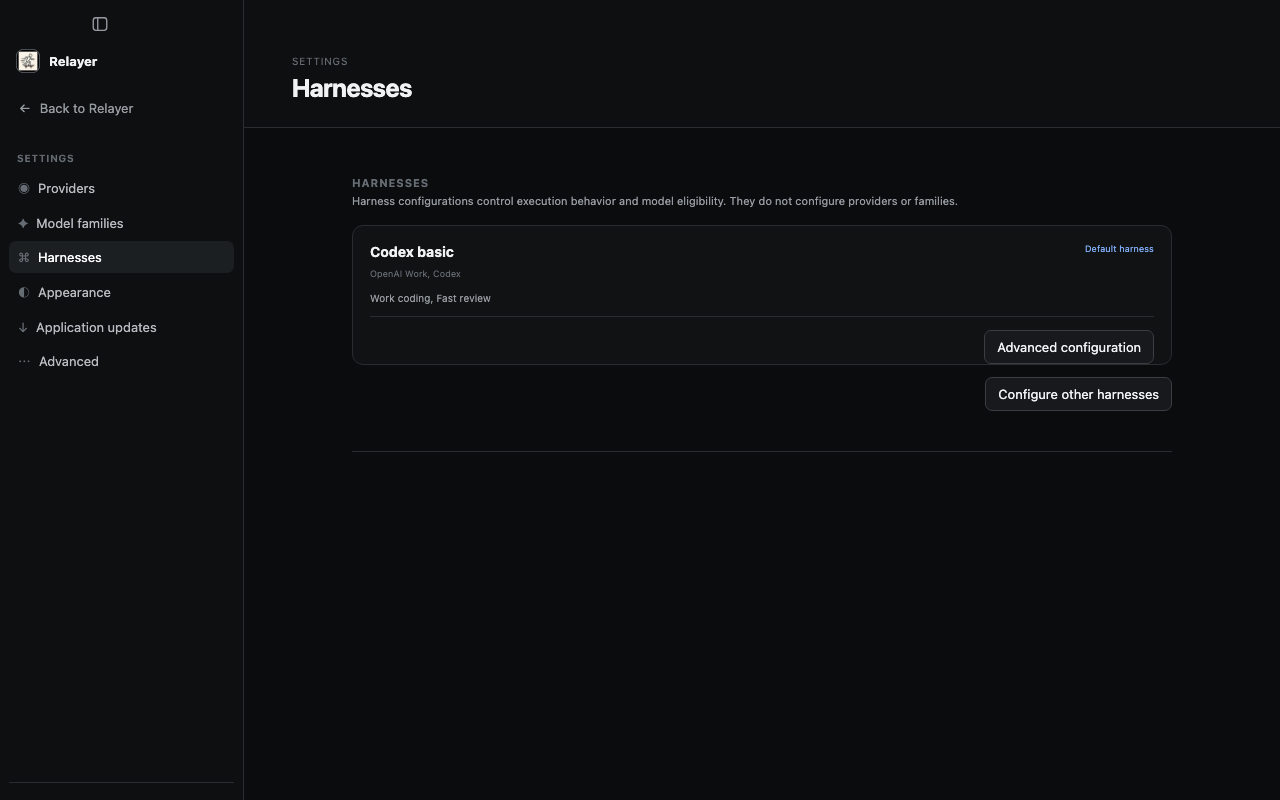
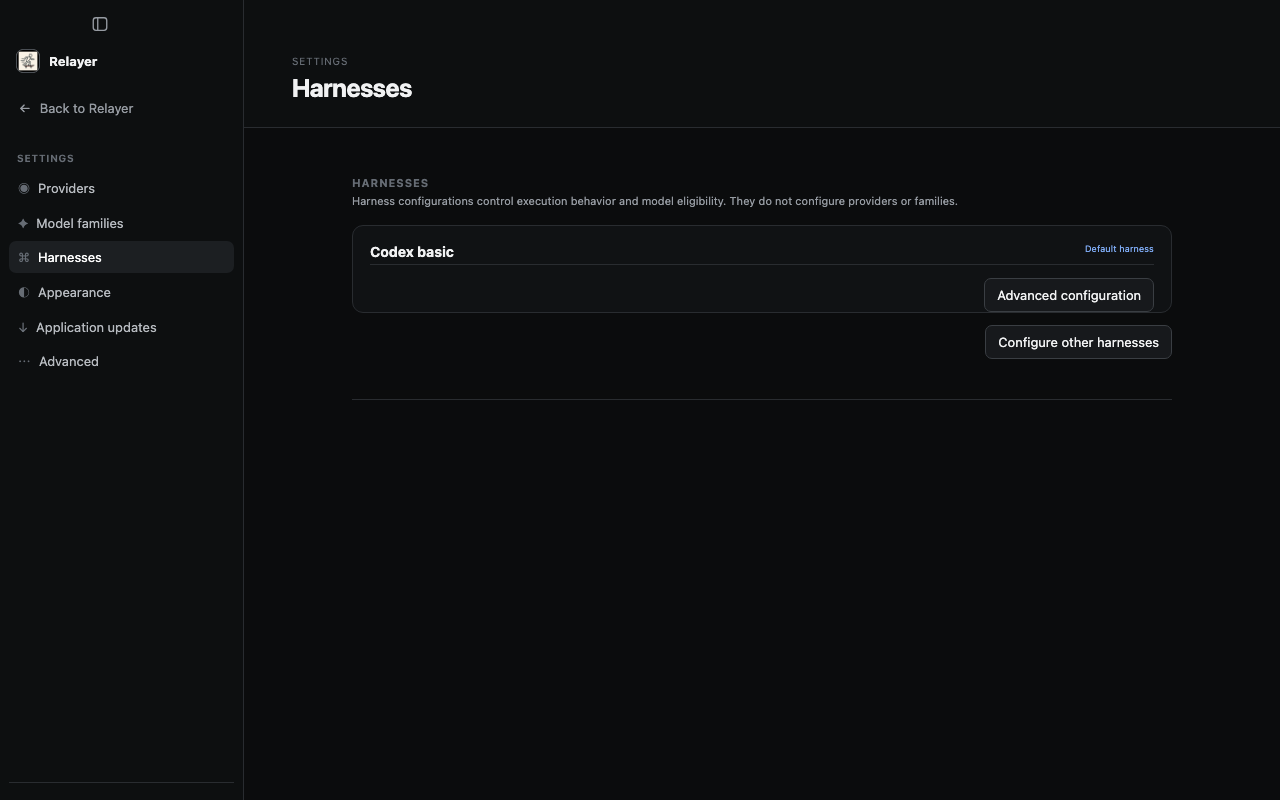
Simplify Harness Settings cards

Changed region(s): [[0.75, 0.3438, 0.9062, 0.5], [0.2812, 0.3125, 0.375, 0.4062]]

diff --git a/desktop/renderer/styles.css b/desktop/renderer/styles.css
@@ -110,4 +110,4 @@ html[data-theme="light"] .tutorial-target{outline-color:#527baa!important;box-sh
 .onboarding-family-choice-section{display:grid;gap:6px}.onboarding-family-choice-section h4{margin:3px 0 0;color:var(--faint);font-size:9px;font-weight:500}
 .composer-context-draft-status{grid-column:1;font-size:10px;color:var(--muted)}.composer-context-draft-status.status-error{color:var(--danger)}
 .context-draft-send-warning{position:fixed;inset:auto var(--context-draft-send-warning-right,12px) var(--context-draft-send-warning-bottom,72px) auto;width:min(352px,calc(100vw - 24px));max-height:calc(100vh - 24px);margin:0;padding:13px;overflow-x:hidden;overflow-y:auto;border:1px solid var(--line-strong);border-radius:12px;background:#191c1f;color:var(--text);box-shadow:0 26px 100px rgba(0,0,0,.66)}.context-draft-send-warning::backdrop{background:rgba(3,4,5,.38)}.context-draft-send-warning:after{content:"";position:absolute;right:24px;bottom:-8px;width:14px;height:14px;border-right:1px solid var(--line-strong);border-bottom:1px solid var(--line-strong);background:#191c1f;transform:rotate(45deg)}.context-draft-send-warning-kicker{display:flex;align-items:center;gap:8px;color:var(--warning);font-size:10px;font-weight:750;letter-spacing:.08em;text-transform:uppercase}.context-draft-send-warning-kicker span{width:20px;height:20px;display:grid;place-items:center;border:1px solid color-mix(in srgb,var(--warning) 42%,transparent);border-radius:50%;background:color-mix(in srgb,var(--warning) 10%,transparent)}.context-draft-send-warning h2{margin:8px 0 5px;font-size:15px;line-height:1.25;letter-spacing:-.015em}.context-draft-send-warning>p{margin:0;color:var(--muted);font-size:10px;line-height:1.45}.context-draft-send-warning .context-draft-send-warning-count{margin:9px 0 6px;color:var(--text);font-size:10px;font-weight:680}.context-draft-send-warning-list{max-height:min(160px,25vh);margin:0;padding:0;overflow-y:auto;overscroll-behavior:contain;scrollbar-gutter:stable;list-style:none;border:1px solid var(--line);border-radius:9px;background:var(--panel)}.context-draft-send-warning-list li{min-height:40px;display:grid;grid-template-columns:24px minmax(0,1fr);align-items:center;gap:7px;padding:6px 8px;border-bottom:1px solid var(--line)}.context-draft-send-warning-list li:last-child{border-bottom:0}.context-draft-send-warning-list li>span{width:24px;height:24px;display:grid;place-items:center;border:1px solid var(--line-strong);border-radius:50%;color:var(--muted)}.context-draft-send-warning-list strong{overflow:hidden;text-overflow:ellipsis;white-space:nowrap;font-size:11px}.context-draft-send-warning-actions{display:flex;align-items:center;justify-content:flex-end;gap:8px;margin-top:9px}.context-draft-send-warning-actions button{min-height:32px;padding:0 10px;border:1px solid var(--line-strong);border-radius:8px;background:transparent;color:var(--text);font-size:11px;font-weight:680}.context-draft-send-warning-actions .primary{background:var(--text);color:var(--bg)}.context-draft-send-warning-actions button:disabled{cursor:wait;opacity:.48}html[data-theme="light"] .context-draft-send-warning{background:#fff;box-shadow:0 26px 100px rgba(28,25,23,.24)}html[data-theme="light"] .context-draft-send-warning:after{background:#fff}html[data-theme="light"] .context-draft-send-warning-list{background:#fafaf9}@media(max-width:760px){.context-draft-send-warning{right:12px!important;left:12px;width:auto}.context-draft-send-warning:after{right:20px}}@media(forced-colors:active){.context-draft-send-warning,.context-draft-send-warning-list,.context-draft-send-warning-actions button{border:2px solid CanvasText}.context-draft-send-warning::backdrop{background:transparent}}
-.harness-summary-card{padding-bottom:0}.harness-compatible-families{margin:12px 0;color:var(--muted);font-size:10px}.harness-advanced-entry{display:flex;justify-content:flex-end;padding-top:2px}.harness-empty{min-height:150px;text-align:center}.harness-empty>div{display:grid;justify-items:center;gap:8px}.harness-empty strong{color:var(--text);font-size:13px}.harness-empty span{max-width:360px;font-size:10px}.harness-advanced-panel{padding:17px;border:1px solid var(--line);border-radius:11px;background:var(--panel)}.harness-advanced-options{display:grid;gap:8px;margin:16px 0}.harness-advanced-options button{text-align:left}.harness-advanced-options p{margin:0;color:var(--muted);font-size:10px}
+.harness-summary-card{padding-bottom:0}.harness-advanced-entry{display:flex;justify-content:flex-end;padding-top:2px}.harness-empty{min-height:150px;text-align:center}.harness-empty>div{display:grid;justify-items:center;gap:8px}.harness-empty strong{color:var(--text);font-size:13px}.harness-empty span{max-width:360px;font-size:10px}.harness-advanced-panel{padding:17px;border:1px solid var(--line);border-radius:11px;background:var(--panel)}.harness-advanced-options{display:grid;gap:8px;margin:16px 0}.harness-advanced-options button{text-align:left}.harness-advanced-options p{margin:0;color:var(--muted);font-size:10px}

diff --git a/desktop/renderer/src/provider-ui.js b/desktop/renderer/src/provider-ui.js
@@ -206,11 +206,6 @@ export function providerDefinitionsMarkup(definitions, defaults = {}, descriptor
   }).join("");
 }
 
-function compactLabels(labels) {
-  if (labels.length <= 2) return labels.join(", ");
-  return `${labels.slice(0, 2).join(", ")} +${labels.length - 2}`;
-}
-
 export function harnessConfigurationsMarkup(settings) {
   const presentations = usableHarnessPresentations(settings);
   if (!presentations.length) return `<div class="family-empty harness-empty"><div><strong>No harnesses are usable right now.</strong><span>Connect a provider with an eligible model, or review advanced configuration.</span><button type="button" class="secondary" id="openHarnessAdvanced">Advanced configuration</button></div></div>`;
@@ -218,9 +213,8 @@ export function harnessConfigurationsMarkup(settings) {
   const hasHiddenEditableHarness = (settings?.harnesses ?? []).some((harness) => (
     harness.available !== false && !usableIds.has(harness.id)
   ));
-  return `${presentations.map(({ harness, providerLabels, familyLabels, isDefault }) => `<article class="harness-configuration-card harness-summary-card" data-harness-configuration="${escapeHtmlAttribute(harness.id)}">
-    <div class="provider-definition-heading"><div><h3>${escapeHtml(harness.label)}</h3><span>${escapeHtml(compactLabels(providerLabels))}</span></div>${isDefault ? `<span class="default-badge">Default harness</span>` : ""}</div>
-    <p class="harness-compatible-families">${escapeHtml(compactLabels(familyLabels))}</p>
+  return `${presentations.map(({ harness, isDefault }) => `<article class="harness-configuration-card harness-summary-card" data-harness-configuration="${escapeHtmlAttribute(harness.id)}">
+    <div class="provider-definition-heading"><div><h3>${escapeHtml(harness.label)}</h3></div>${isDefault ? `<span class="default-badge">Default harness</span>` : ""}</div>
     <div class="provider-definition-actions"><span class="push"></span><button type="button" class="secondary" data-harness-rules-edit="${escapeHtmlAttribute(harness.id)}">Advanced configuration</button></div>
   </article>`).join("")}${hasHiddenEditableHarness ? `<div class="harness-advanced-entry"><button type="button" class="secondary" id="openHarnessAdvanced">Configure other harnesses</button></div>` : ""}`;
 }

diff --git a/desktop/renderer/src/harness-settings-model.js b/desktop/renderer/src/harness-settings-model.js
@@ -37,26 +37,11 @@ export function validateHarnessRules(rules) {
   return errors;
 }
 
-function uniqueLabels(values) {
-  return [...new Set(values.filter(Boolean))];
-}
-
 export function usableHarnessPresentations(settings) {
-  const providers = settings?.providers ?? [];
-  const families = settings?.families ?? [];
   return (settings?.harnesses ?? []).flatMap((harness) => {
     if (!harness.usableNow) return [];
-    const providerIds = uniqueLabels((harness.usableProviderIds ?? []).map(String));
-    const providerLabels = providerIds.map((providerId) => (
-      providers.find((provider) => String(provider.id) === providerId)?.label
-    )).filter(Boolean);
-    const familyIds = new Set((harness.usableFamilyIds ?? []).map(String));
     return [{
       harness,
-      providerLabels: uniqueLabels(providerLabels),
-      familyLabels: uniqueLabels(families
-        .filter((family) => familyIds.has(String(family.id)))
-        .map((family) => family.name)),
       isDefault: harness.id === settings?.defaults?.harnessId,
     }];
   });

diff --git a/docs/evidence/harness-settings-usability/README.md b/docs/evidence/harness-settings-usability/README.md
@@ -9,12 +9,13 @@ usable through the currently connected providers, available models, enabled
 families, model rules, and execution-access contract. The image demonstrates:
 
 - only the usable Codex harness appears in the ordinary list;
-- connected provider and eligible family context replace catalog internals;
+- the ordinary card contains only its user-facing name, saved-default status,
+  and Advanced configuration action;
 - the saved default is identified without a redundant Available badge;
 - raw adapter rules remain behind the keyboard-native Advanced configuration
   action; and
 - the separate Configure other harnesses action preserves access to advanced
   rule editing for installed configurations omitted from the ordinary list.
 
-The capture is 1280×800, 43,017 bytes, with SHA-256
[1 lines of base64/hex data omitted]
+The capture is 1280×800, 39,899 bytes, with SHA-256
[1 lines of base64/hex data omitted]
